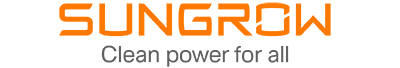
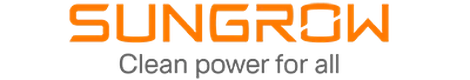
scaled images

diff --git a/index.html b/index.html
@@ -388,7 +388,7 @@ body {
 }
 
 .gear-strip img {
-    flex: 1;
+    width: calc((100% - (25px * 7)) / 8); /* 8 images with 7 gaps of 25px */
     height: auto;
     display: block;
     object-fit: contain;
